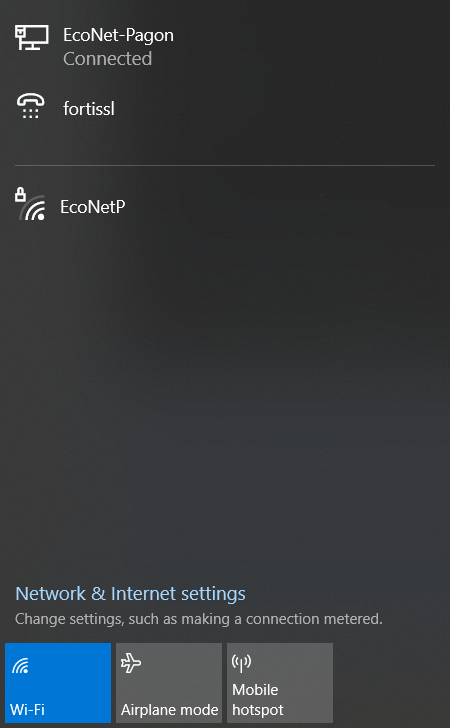
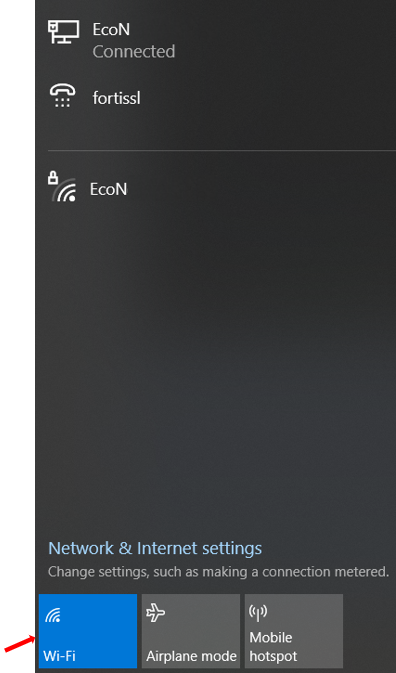
Resursi

Changed region(s): [[0.0, 0.0, 0.9697, 1.0]]

diff --git a/README.md b/README.md
@@ -3,10 +3,10 @@ Show icon in taskbar when Wi-Fi enabled.
 
 ## Before
 ![I have wired connection. Is Wi-Fi enabled?](resources/Taskbar_wo_icon.png)
-I have wired connection. Is Wi-Fi enabled?
+I have wired connection obviously. Is Wi-Fi enabled?
 
 ![Yes, Wi-Fi is enabled](resources/wifi_on.png)
-Yes, Wi-Fi is enabled
+Yes, blue button shows that Wi-Fi is enabled
 
 ## Now
 ![Icon shows Wi-Fi enabled](resources/Taskbar_with_icon.png)
